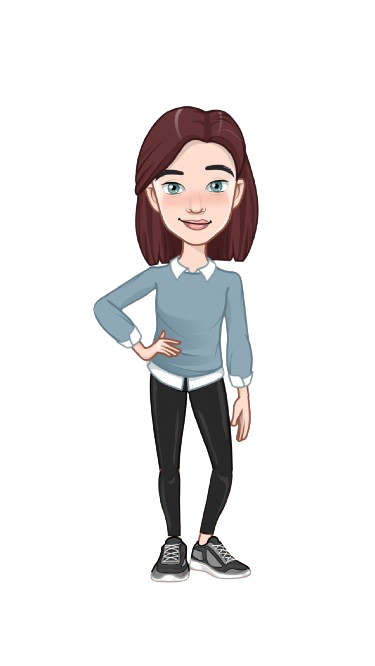
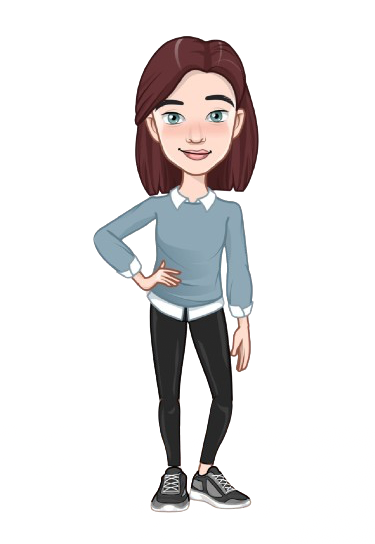
cvg

Changed region(s): [[0.2347, 0.0625, 0.704, 0.9688], [0.3813, 0.625, 0.4107, 0.6562]]

diff --git a/oltrepersone.html b/oltrepersone.html
@@ -72,7 +72,7 @@
                 <div class="article">
                     <h3 class="sottotitolo-personalizzato"><span style="margin-right: 20px;"></span></h3>
 
-                    <img src="images/chiara.png" alt="Immagine articolo 1" style="margin-left: 80px;">
+                    <img src="images/chiara.png" alt="Immagine articolo 1" style="margin-left: 60px;">
                     <div class="article-content">
                         <h2> Chiara </h2>
                         <p style="margin-top: 10px; margin-bottom: 10px;">
@@ -94,19 +94,15 @@
                 </div>
                 <div class="article">
                     <h3 class="sottotitolo-personalizzato"><span style="margin-right: 20px;"></span></h3>
-
-                    <img src="images/viviana.png" alt="Immagine viviana">
+                    <img src="images/viviana.png" alt="Immagine viviana"
+                        style="margin-left: 80px; width: auto; height: 130%;">
                     <div class="article-content">
                         <h2> Viviana </h2>
                         <p style="margin-top: 10px; margin-bottom: 10px;">
-                            Sono una ragazza di 20 anni molto chiacchierona. Nutro uno smisurato amore per i viaggi, il
-                            mare e l'arte, in tutte le
-                            sue forme, ma soprattutto per la scrittura. Mi appassiona guardare film e leggere di tutto
-                            (ad eccezione dell’horror),
-                            per immergermi in altre realtà e vivere più vite. Oltre a questo, nella mia quotidianità
-                            studio Lettere Moderne presso
-                            l'Università degli Studi di Milano e bevo caffè, ma solo per necessità.
-                        </p>
+                            Sono una ragazza di 20 anni molto chiacchierona. Nutro uno smisurato amore per l'arte in
+                            tutte le sue forme e mi
+                            appassiona leggere per immergermi in altre realtà e vivere più vite. Nella mia quotidianità
+                            studio Lettere Moderne. </p>
                     </div>
                 </div>
 

diff --git a/oltrepersone.css b/oltrepersone.css
@@ -340,10 +340,8 @@
 
     .week-strip2 {
         background-color: rgb(13, 29, 70);
-
         display: flex;
         align-items: center;
-
         height: 100vh;
     }
 
